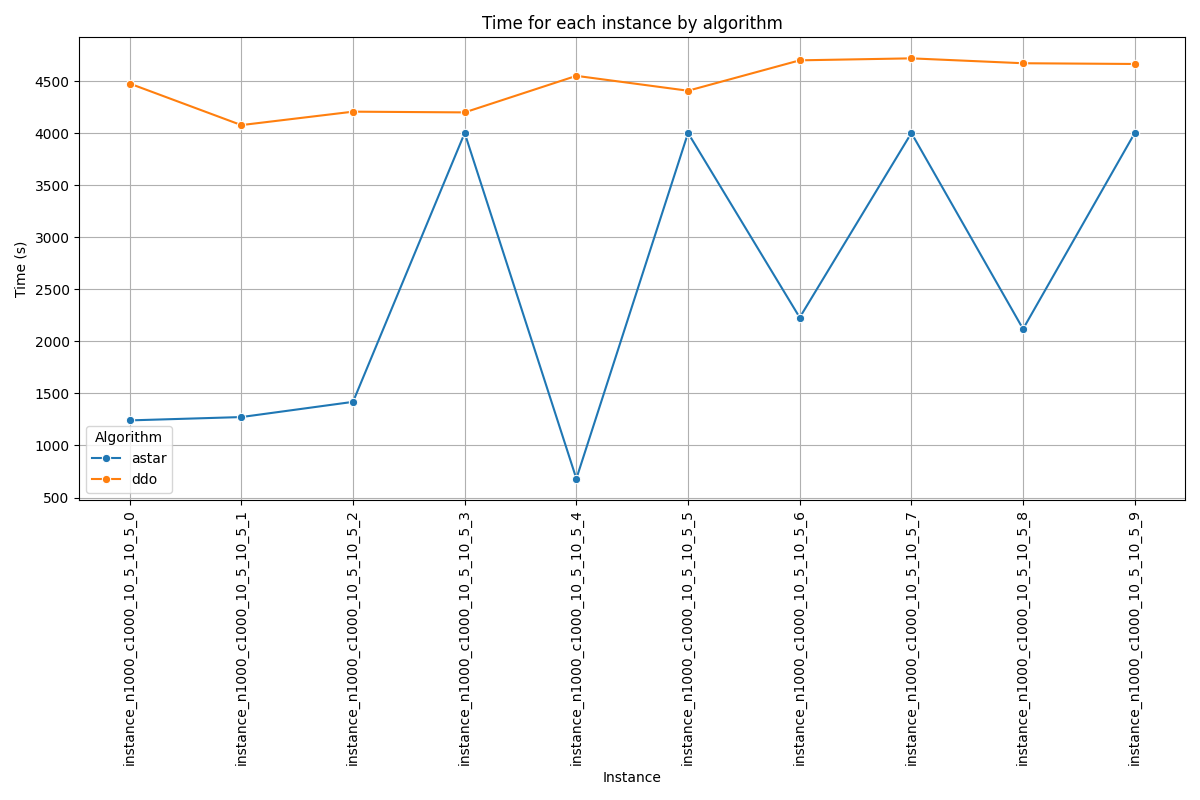
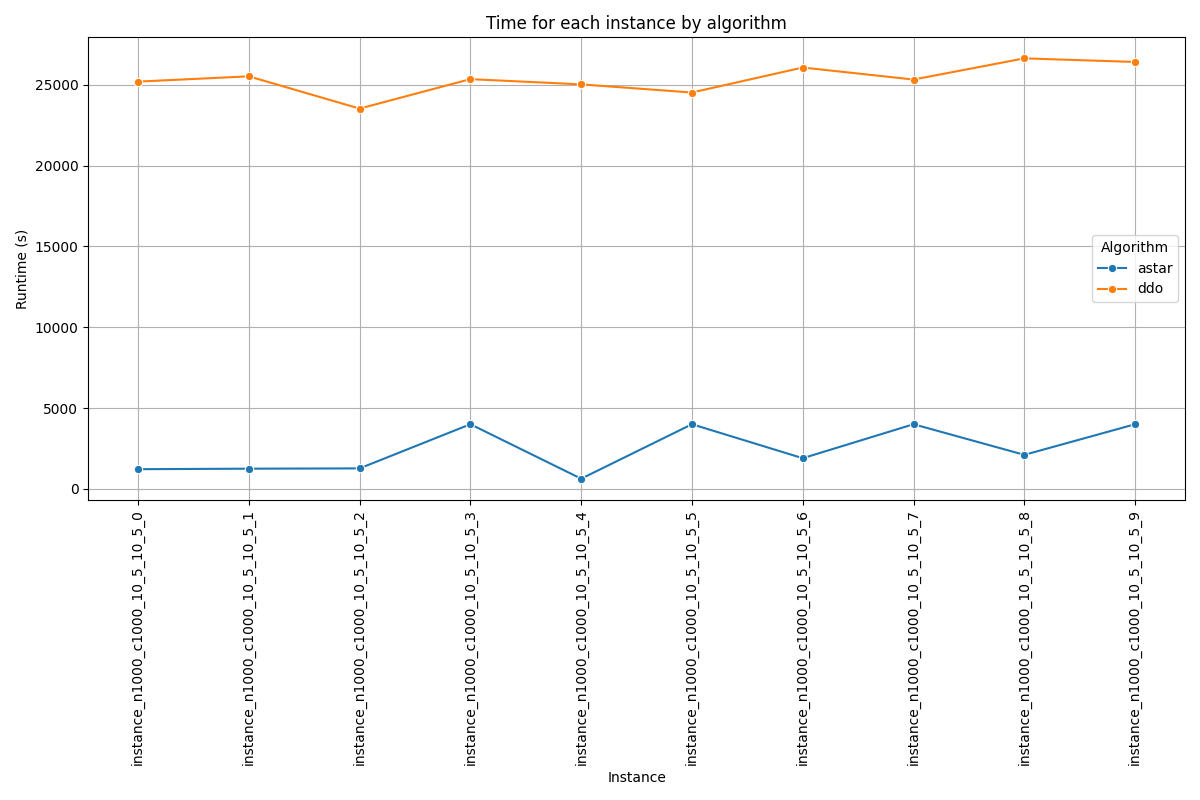
regen example and plot

diff --git a/bench/visu/perf_gap.py b/bench/visu/perf_gap.py
@@ -1,6 +1,6 @@
-import pandas as pd
 import matplotlib.pyplot as plt
 import numpy as np
+import pandas as pd
 
 # Create dummy data
 data = []
@@ -42,7 +42,7 @@ for algo in algos:
     # Append a starting point? Optional, usually standard plots just start at first point
     ax1.plot(x, y, label=algo, marker='.', linestyle='-')
 
-ax1.set_xlabel('Time (s)')
+ax1.set_xlabel('Runtime (s)')
 ax1.set_ylabel('Cumulative Instances')
 ax1.set_title('Solved vs Time')
 ax1.grid(True)
@@ -62,4 +62,4 @@ ax2.set_title('Gap Profile')
 ax2.grid(True)
 ax2.legend()
 
-plt.savefig('combined_plot_test.png')
+plt.savefig('smic_combined_plot.png')

diff --git a/bench/visu/graph_time.py b/bench/visu/graph_time.py
@@ -2,6 +2,7 @@ import argparse
 import os
 
 import matplotlib
+
 matplotlib.use("Qt5Agg")
 
 import matplotlib.pyplot as plt
@@ -29,9 +30,9 @@ if os.path.exists(data_file_path):
     plt.xticks(rotation=90)
     plt.title("Time for each instance by algorithm")
     plt.xlabel("Instance")
-    plt.ylabel("Time (s)")
+    plt.ylabel("Runtime (s)")
     plt.grid(True)
     plt.tight_layout()
 
-    plt.savefig("ks_graph_time.png") # save image
+    plt.savefig("smic_graph_time.png")  # save image
     plt.show()

diff --git a/bench/visu/consolidate_results.py b/bench/visu/consolidate_results.py
@@ -115,7 +115,7 @@ if os.path.exists(folder_path):
         print(df_results)
 
         # Optional: Save to CSV
-        df_results.to_csv("ks_consolidated_results.csv", index=False)
+        df_results.to_csv("smic_consolidated_results.csv", index=False)
         print("\nSaved to ks_consolidated_results.csv")
     else:
         print("No valid data found.")
